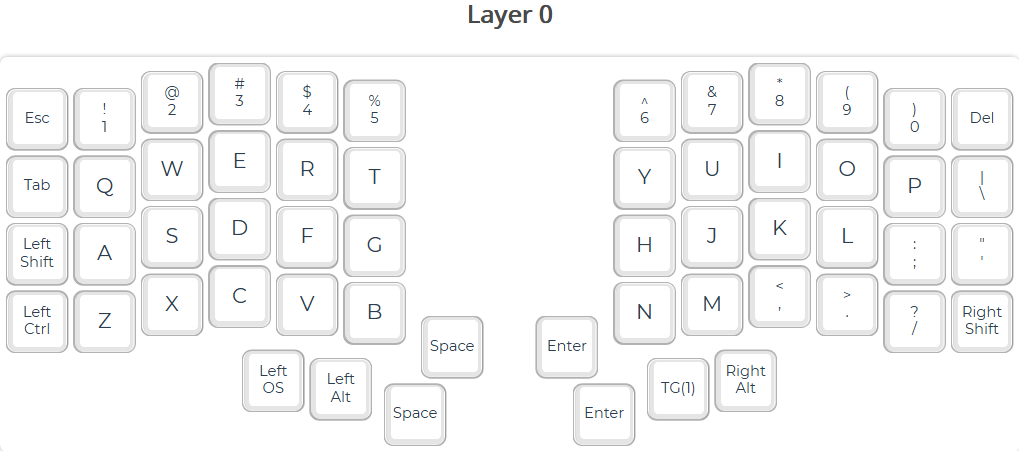
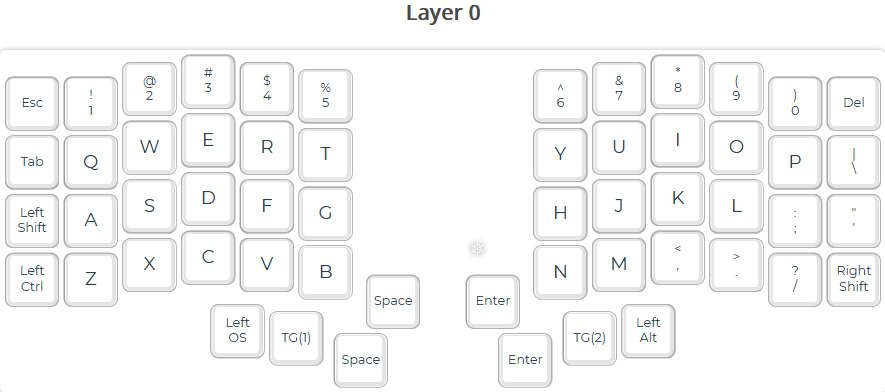
Add files via upload

diff --git a/keymap.c b/keymap.c
@@ -1,7 +1,7 @@
 #include QMK_KEYBOARD_H
 
 const uint16_t PROGMEM keymaps[][MATRIX_ROWS][MATRIX_COLS] = {
-	[0] = LAYOUT(KC_ESC, KC_1, KC_2, KC_3, KC_4, KC_5, KC_6, KC_7, KC_8, KC_9, KC_0, KC_DEL, KC_TAB, KC_Q, KC_W, KC_E, KC_R, KC_T, KC_Y, KC_U, KC_I, KC_O, KC_P, KC_BSLS, KC_LSFT, KC_A, KC_S, KC_D, KC_F, KC_G, KC_H, KC_J, KC_K, KC_L, KC_SCLN, KC_QUOT, KC_LCTL, KC_Z, KC_X, KC_C, KC_V, KC_B, KC_SPC, KC_ENT, KC_N, KC_M, KC_COMM, KC_DOT, KC_SLSH, KC_RSFT, KC_LGUI, KC_LALT, KC_SPC, KC_ENT, TG(1), KC_RALT),
-	[1] = LAYOUT(KC_GRV, KC_F1, KC_F2, KC_F3, KC_F4, KC_F5, KC_F6, KC_F7, KC_F8, KC_F9, KC_F10, KC_F11, KC_TAB, RGB_TOG, KC_UP, KC_NO, RGB_MOD, RGB_RMOD, KC_MINS, KC_EQL, KC_LBRC, KC_RBRC, KC_DEL, KC_F12, KC_LSFT, KC_LEFT, KC_DOWN, KC_RGHT, KC_NO, KC_NO, KC_NO, KC_NO, KC_NO, KC_NO, KC_HOME, KC_PGUP, KC_LCTL, KC_NO, KC_NO, KC_NO, KC_NO, KC_NO, KC_SPC, KC_ENT, KC_NO, TG(2), KC_NO, KC_PSCR, KC_END, KC_PGDN, KC_LGUI, KC_LALT, KC_SPC, KC_ENT, KC_TRNS, KC_RALT),
-	[2] = LAYOUT(KC_ESC, KC_1, KC_2, KC_3, KC_4, KC_5, KC_6, KC_7, KC_8, KC_9, KC_0, RGB_HUI, KC_TAB, KC_Q, KC_W, KC_E, KC_R, KC_T, KC_Y, KC_U, KC_I, KC_O, KC_P, RGB_HUD, KC_LSFT, KC_A, KC_S, KC_D, KC_F, KC_G, KC_H, KC_J, KC_K, KC_L, RGB_SAI, RGB_SAD, KC_LCTL, KC_Z, KC_X, KC_C, KC_V, KC_B, KC_SPC, KC_ENT, KC_N, KC_M, KC_COMM, KC_DOT, RGB_VAI, RGB_VAD, OSM(MOD_MEH), OSM(MOD_HYPR), KC_SPC, KC_ENT, KC_TRNS, KC_RALT)
+	[0] = LAYOUT(KC_ESC, KC_1, KC_2, KC_3, KC_4, KC_5, KC_6, KC_7, KC_8, KC_9, KC_0, KC_DEL, KC_TAB, KC_Q, KC_W, KC_E, KC_R, KC_T, KC_Y, KC_U, KC_I, KC_O, KC_P, KC_BSLS, KC_LSFT, KC_A, KC_S, KC_D, KC_F, KC_G, KC_H, KC_J, KC_K, KC_L, KC_SCLN, KC_QUOT, KC_LCTL, KC_Z, KC_X, KC_C, KC_V, KC_B, KC_SPC, KC_ENT, KC_N, KC_M, KC_COMM, KC_DOT, KC_SLSH, KC_RSFT, KC_LGUI, TG(1), KC_SPC, KC_ENT, TG(2), KC_LALT),
+	[1] = LAYOUT(KC_GRV, KC_F1, KC_F2, KC_F3, KC_F4, KC_F5, KC_F6, KC_F7, KC_F8, KC_F9, KC_F10, KC_F11, KC_TAB, RGB_TOG, KC_UP, KC_NO, RGB_MOD, RGB_RMOD, KC_MINS, KC_EQL, KC_LBRC, KC_RBRC, KC_BSPC, KC_F12, KC_LSFT, KC_LEFT, KC_DOWN, KC_RGHT, KC_NO, KC_NO, KC_NO, KC_NO, KC_PGUP, KC_PGDN, KC_HOME, KC_RCTL, KC_LCTL, KC_MPRV, KC_MNXT, KC_MPLY, KC_MSTP, KC_NO, KC_SPC, KC_ENT, KC_NO, KC_NO, KC_NO, KC_PSCR, KC_END, KC_RSFT, KC_LGUI, KC_TRNS, KC_SPC, KC_ENT, KC_TRNS, KC_LALT),
+	[2] = LAYOUT(KC_ESC, KC_1, KC_2, KC_3, KC_4, KC_5, KC_6, KC_7, KC_8, KC_9, KC_0, RGB_HUI, KC_TAB, KC_Q, KC_W, KC_E, KC_R, KC_T, KC_Y, KC_U, KC_I, KC_O, KC_P, RGB_HUD, KC_LSFT, KC_A, KC_S, KC_D, KC_F, KC_G, KC_H, KC_J, KC_K, KC_L, RGB_SAI, RGB_SAD, KC_LCTL, KC_Z, KC_X, KC_C, KC_V, KC_B, KC_SPC, KC_ENT, KC_N, KC_M, KC_COMM, KC_DOT, RGB_VAI, RGB_VAD, OSM(MOD_MEH), KC_TRNS, KC_SPC, KC_ENT, KC_TRNS, OSM(MOD_HYPR))
 };
